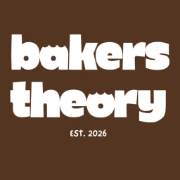
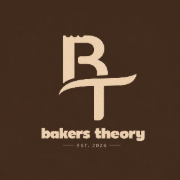
feat: update login UI

diff --git a/src/app/login/page.tsx b/src/app/login/page.tsx
@@ -1,7 +1,8 @@
 "use client";
 
 import { useEffect, useState } from "react";
-import { Loader2 } from "lucide-react";
+import { LazyMotion, domAnimation, m, AnimatePresence } from "motion/react";
+import { Loader2, Lock, User } from "lucide-react";
 import { useRouter } from "next/navigation";
 import { createClient } from "@/utils/supabase/client";
 import {
@@ -13,6 +14,12 @@ import {
 import { defaultRoute } from "@/lib/permissions";
 import { useAuthReady, useCurrentUser } from "@/components/system/AuthProvider";
 import { LoadingScreen } from "@/components/system/LoadingScreen";
+
+const inputClass =
+  "w-full rounded-xl border border-transparent bg-cream py-3.5 pl-11 pr-4 text-[15px] text-ink transition-all placeholder:text-ink/40 focus:border-[#8a6a3c]/30 focus:bg-white focus:outline-none focus:ring-4 focus:ring-[#8a6a3c]/10";
+
+const iconWrapClass =
+  "pointer-events-none absolute inset-y-0 left-0 flex items-center pl-4";
 
 export default function LoginPage() {
   const router = useRouter();
@@ -64,58 +71,133 @@ export default function LoginPage() {
   if (!ready || user) return <LoadingScreen />;
 
   return (
-    <div className="fixed inset-0 z-[300] flex items-center justify-center bg-[radial-gradient(circle_at_30%_12%,#fff7ec,#efdfc4)] p-6">
-      <div className="w-full max-w-[384px] rounded-[24px] border border-line bg-warm-white px-8 py-9 shadow-[0_22px_64px_rgba(90,52,20,0.16)]">
-        <div className="mb-[26px] flex flex-col items-center text-center">
-          {/* eslint-disable-next-line @next/next/no-img-element */}
-          <img
-            fetchPriority="high"
-            src="/apple-touch-icon.png"
-            alt="Bakers Theory"
-            className="h-[62px] w-[62px] rounded-[19px] object-cover shadow-[0_7px_20px_rgba(90,52,20,0.32)]"
-          />
-          <div className="wordmark mt-3.5 text-[28px] leading-[1.1]">Bakers Theory</div>
-          <div className="mt-1 text-[11.5px] font-bold tracking-[0.08em] text-ink-light">
-            STORE MANAGEMENT
-          </div>
-        </div>
-        <div className="mb-3.5 text-left">
-          <label className="mb-1.5 block text-xs font-bold text-[#8a6a3c]">User ID</label>
-          <input
-            type="text"
-            placeholder="Enter your ID"
-            autoComplete="username"
-            className="bg-cream"
-            value={userId}
-            onChange={(e) => setUserId(e.target.value)}
-          />
-        </div>
-        <div className="mb-[22px] text-left">
-          <label className="mb-1.5 block text-xs font-bold text-[#8a6a3c]">Password</label>
-          <input
-            type="password"
-            placeholder="Enter your password"
-            autoComplete="current-password"
-            className="bg-cream"
-            value={password}
-            onChange={(e) => setPassword(e.target.value)}
-            onKeyDown={(e) => {
-              if (e.key === "Enter") submit();
-            }}
-          />
-        </div>
-        {error && (
-          <div className="mb-3 text-left text-[13px] font-semibold text-danger">{error}</div>
-        )}
-        <button
-          className="btn-primary flex w-full items-center justify-center gap-2 p-3.5 text-[15px] disabled:cursor-not-allowed disabled:opacity-60"
-          onClick={submit}
-          disabled={busy}
+    <LazyMotion features={domAnimation}>
+      <div className="relative flex min-h-screen w-full items-center justify-center overflow-hidden bg-[#3a200d] p-4 sm:p-6">
+        {/* FULL-BLEED BACKGROUND (mobile + desktop): bakery photo with a slow zoom */}
+        <m.img
+          initial={{ scale: 1.08 }}
+          animate={{ scale: 1 }}
+          transition={{ duration: 12, ease: "easeOut" }}
+          src="/login-bakery.jpg"
+          alt=""
+          aria-hidden="true"
+          fetchPriority="low"
+          decoding="async"
+          className="absolute inset-0 h-full w-full object-cover"
+        />
+        {/* Warm brand tint + a soft vignette that darkens the edges and focuses
+            attention on the centered card */}
+        <div className="absolute inset-0 bg-[#241407]/75" />
+        <div className="absolute inset-0 bg-[radial-gradient(115%_115%_at_50%_45%,transparent_30%,rgba(15,8,0,0.7)_100%)]" />
+
+        {/* CENTERED LOGIN CARD — frosted, floats above the photo */}
+        <m.div
+          initial={{ opacity: 0, y: 24, scale: 0.98 }}
+          animate={{ opacity: 1, y: 0, scale: 1 }}
+          transition={{ duration: 0.5, ease: "easeOut" }}
+          className="relative z-10 w-full max-w-[400px] rounded-[32px] border border-white/50 bg-warm-white/90 p-8 shadow-[0_30px_80px_-24px_rgba(0,0,0,0.75)] backdrop-blur-xl sm:p-10"
         >
-          {busy && <Loader2 size={16} className="animate-spin" />}
-          {busy ? "Signing in…" : "Sign in"}
-        </button>
+          {/* Header & Logo */}
+          <div className="mb-8 flex flex-col items-center text-center">
+            <m.img
+              initial={{ scale: 0.8, opacity: 0 }}
+              animate={{ scale: 1, opacity: 1 }}
+              transition={{ delay: 0.1, duration: 0.5, type: "spring" }}
+              fetchPriority="high"
+              src="/apple-touch-icon.png"
+              alt="Bakers Theory"
+              className="h-[72px] w-[72px] rounded-[22px] object-cover shadow-[0_8px_24px_rgba(90,52,20,0.28)]"
+            />
+            <h2 className="wordmark mt-5 text-[32px] leading-[1.1] text-[#3a200d]">
+              Bakers Theory
+            </h2>
+            <p className="mt-1.5 text-[12px] font-bold uppercase tracking-[0.1em] text-[#8a6a3c]/80">
+              Store Management
+            </p>
+            <p className="mt-3 text-[13.5px] text-ink-muted">
+              Crafting joy, one bake at a time.
+            </p>
+          </div>
+
+          {/* Form Inputs */}
+          <div className="space-y-5">
+            <div>
+              <label className="mb-2 block text-[13px] font-bold text-[#8a6a3c]">
+                User ID
+              </label>
+              <div className="relative">
+                <div className={iconWrapClass}>
+                  <User size={18} className="text-[#8a6a3c]/50" />
+                </div>
+                <input
+                  type="text"
+                  placeholder="Enter your ID"
+                  autoComplete="username"
+                  className={inputClass}
+                  value={userId}
+                  onChange={(e: React.ChangeEvent<HTMLInputElement>) => setUserId(e.target.value)}
+                />
+              </div>
+            </div>
+
+            <div>
+              <label className="mb-2 block text-[13px] font-bold text-[#8a6a3c]">
+                Password
+              </label>
+              <div className="relative">
+                <div className={iconWrapClass}>
+                  <Lock size={18} className="text-[#8a6a3c]/50" />
+                </div>
+                <input
+                  type="password"
+                  placeholder="Enter your password"
+                  autoComplete="current-password"
+                  className={inputClass}
+                  value={password}
+                  onChange={(e: React.ChangeEvent<HTMLInputElement>) => setPassword(e.target.value)}
+                  onKeyDown={(e: React.KeyboardEvent<HTMLInputElement>) => {
+                    if (e.key === "Enter") submit();
+                  }}
+                />
+              </div>
+            </div>
+          </div>
+
+          {/* Error Message with Animation */}
+          <div className="mt-4 min-h-[24px]">
+            <AnimatePresence>
+              {error && (
+                <m.div
+                  initial={{ opacity: 0, y: -10 }}
+                  animate={{ opacity: 1, y: 0 }}
+                  exit={{ opacity: 0 }}
+                  className="rounded-lg bg-danger/10 px-3 py-2 text-center text-[13.5px] font-semibold text-danger"
+                >
+                  {error}
+                </m.div>
+              )}
+            </AnimatePresence>
+          </div>
+
+          {/* Submit Button */}
+          <m.button
+            whileHover={{ scale: 1.01 }}
+            whileTap={{ scale: 0.98 }}
+            className="btn-primary mt-4 flex w-full items-center justify-center gap-2 rounded-xl py-3.5 text-[15px] font-semibold shadow-lg shadow-[#8a6a3c]/20 transition-all disabled:cursor-not-allowed disabled:opacity-70 disabled:shadow-none"
+            onClick={submit}
+            disabled={busy}
+          >
+            {busy ? (
+              <>
+                <Loader2 size={18} className="animate-spin" />
+                <span>Authenticating...</span>
+              </>
+            ) : (
+              <span>Sign In to Dashboard</span>
+            )}
+          </m.button>
+        </m.div>
       </div>
-    </div>
+    </LazyMotion>
   );
 }